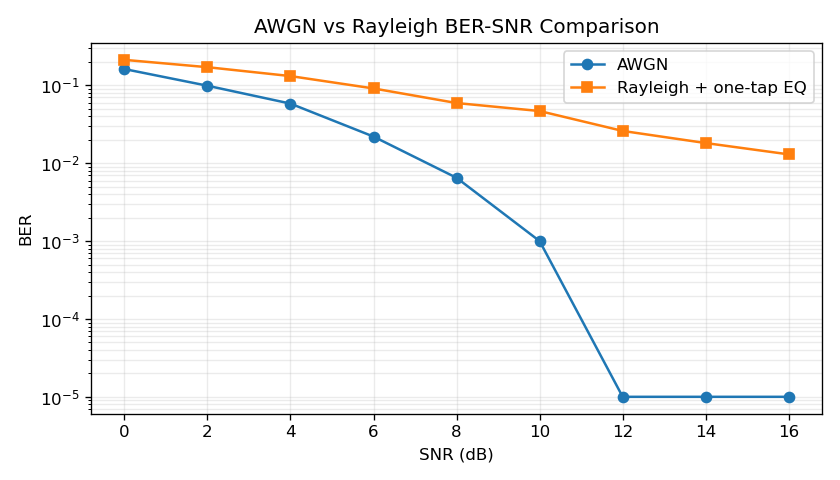
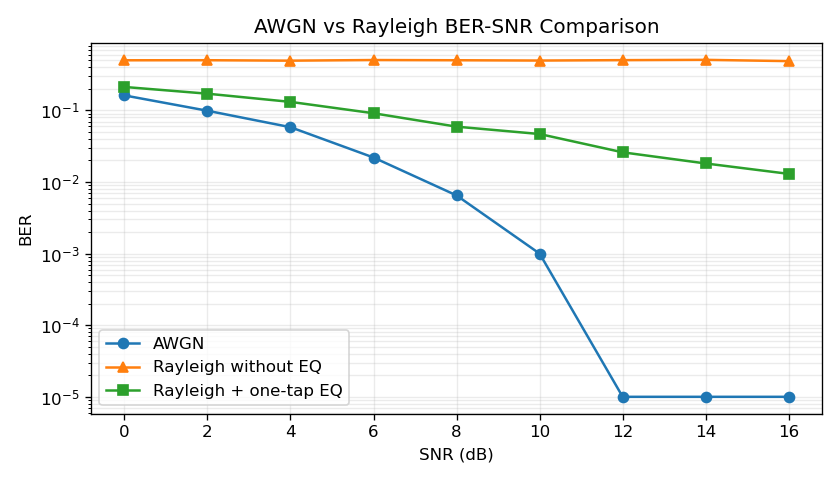
Harden pipeline input validation and decoding errors

diff --git a/tests/test_hidden_regression.py b/tests/test_hidden_regression.py
@@ -1,0 +1,118 @@
+"""Regression coverage for classroom-review boundary cases."""
+
+from __future__ import annotations
+
+import json
+import subprocess
+import sys
+from pathlib import Path
+
+import pytest
+
+from src.pipeline import run_pipeline
+
+
+PROJECT_ROOT = Path(__file__).resolve().parents[1]
+REQUIRED_METRICS = {
+    "snr_db", "seed", "modulation", "channel", "payload_bits", "ber", "fer",
+    "text_match_rate", "checksum_pass", "sync_start_index", "failure_reason",
+}
+
+
+def run_cli(*args: str) -> subprocess.CompletedProcess[str]:
+    return subprocess.run(
+        [sys.executable, "main.py", *args],
+        cwd=PROJECT_ROOT,
+        text=True,
+        capture_output=True,
+        timeout=30,
+    )
+
+
[email redacted](
+    "content",
+    [
+        "无线通信技术期末项目",
+        "A plain English payload.",
+        "QPSK 链路 mixed text 🚀📡",
+        "",
+        "短",
+        ("较长文本 mixed UTF-8 🌏\n" * 80),
+    ],
+    ids=["chinese", "english", "mixed_emoji", "empty", "short", "long"],
+)
+def test_utf8_round_trip_and_payload_length(tmp_path: Path, content: str):
+    source = tmp_path / "source.txt"
+    output = tmp_path / "nested" / "results" / "received.txt"
+    source.write_bytes(content.encode("utf-8"))
+    metrics = run_pipeline(
+        input_path=source, output_path=output, snr_db=12, seed=2026,
+        modulation="qpsk", channel="awgn", make_plots=False,
+    )
+    assert output.read_bytes() == source.read_bytes()
+    assert metrics["payload_bits"] == len(source.read_bytes()) * 8
+    assert metrics["ber"] == metrics["fer"] == 0.0
+    assert metrics["checksum_pass"] is True
+    assert metrics["failure_reason"] is None
+    assert REQUIRED_METRICS <= metrics.keys()
+
+
[email redacted]("seed", [0, 1, 7, 2026, 65537])
+def test_awgn_12db_multiple_seeds(tmp_path: Path, seed: int):
+    source = tmp_path / f"input-{seed}.txt"
+    output = tmp_path / f"out-{seed}" / "received.txt"
+    source.write_text("Seed 回归 📶 " * 12, encoding="utf-8")
+    metrics = run_pipeline(
+        input_path=source, output_path=output, snr_db=12, seed=seed,
+        modulation="qpsk", channel="awgn", make_plots=False,
+    )
+    assert output.read_bytes() == source.read_bytes()
+    assert metrics["sync_start_index"] == metrics["prefix_offset_symbols"]
+
+
[email redacted]("snr", ["-1", "nan", "inf"])
+def test_invalid_snr_is_rejected(tmp_path: Path, snr: str):
+    source = tmp_path / "input.txt"
+    source.write_text("data", encoding="utf-8")
+    result = run_cli("--input", str(source), "--output", str(tmp_path / "out.txt"), "--snr", snr)
+    assert result.returncode != 0
+    assert "snr must be a finite non-negative number" in result.stderr.lower()
+    assert "traceback" not in result.stderr.lower()
+
+
[email redacted](
+    ("option", "value"),
+    [("--mod", "bpsk"), ("--channel", "rician")],
+)
+def test_invalid_choice_is_rejected(tmp_path: Path, option: str, value: str):
+    source = tmp_path / "input.txt"
+    source.write_text("data", encoding="utf-8")
+    result = run_cli(
+        "--input", str(source), "--output", str(tmp_path / "out.txt"), option, value,
+    )
+    assert result.returncode != 0
+    assert "invalid choice" in result.stderr.lower()
+    assert "traceback" not in result.stderr.lower()
+
+
+def test_missing_input_has_clear_error(tmp_path: Path):
+    missing = tmp_path / "missing.txt"
+    result = run_cli("--input", str(missing), "--output", str(tmp_path / "out.txt"))
+    assert result.returncode != 0
+    assert "input file does not exist" in result.stderr.lower()
+    assert "traceback" not in result.stderr.lower()
+
+
[email redacted]("channel", ["awgn", "rayleigh"])
+def test_failure_metrics_schema_is_stable(tmp_path: Path, channel: str):
+    source = tmp_path / "input.txt"
+    source.write_text("low SNR failure payload " * 20, encoding="utf-8")
+    output = tmp_path / "low" / "received.txt"
+    metrics = run_pipeline(
+        input_path=source, output_path=output, snr_db=0, seed=2026,
+        modulation="qpsk", channel=channel, make_plots=False,
+    )
+    stored = json.loads((output.parent / "metrics.json").read_text(encoding="utf-8"))
+    assert REQUIRED_METRICS <= metrics.keys()
+    assert REQUIRED_METRICS <= stored.keys()
+    assert metrics["failure_reason"] is not None

diff --git a/main.py b/main.py
@@ -3,15 +3,28 @@
 from __future__ import annotations
 
 import argparse
+import math
+from pathlib import Path
 
 from src.pipeline import run_pipeline
+
+
+def finite_nonnegative(value: str) -> float:
+    """Argparse converter for physically meaningful SNR values."""
+    try:
+        number = float(value)
+    except ValueError as exc:
+        raise argparse.ArgumentTypeError("snr must be a finite non-negative number") from exc
+    if not math.isfinite(number) or number < 0:
+        raise argparse.ArgumentTypeError("snr must be a finite non-negative number")
+    return number
 
 
 def build_parser() -> argparse.ArgumentParser:
     parser = argparse.ArgumentParser(description="Wireless baseband simulator")
     parser.add_argument("--input", required=True, help="Input UTF-8 text file")
     parser.add_argument("--output", required=True, help="Output received text file")
-    parser.add_argument("--snr", type=float, default=12.0, help="SNR in dB")
+    parser.add_argument("--snr", type=finite_nonnegative, default=12.0, help="SNR in dB")
     parser.add_argument("--seed", type=int, default=2026, help="Random seed")
     parser.add_argument("--mod", default="qpsk", choices=["qpsk"], help="Modulation type")
     parser.add_argument("--channel", default="awgn", choices=["awgn", "rayleigh"], help="Channel type")
@@ -22,15 +35,23 @@ def build_parser() -> argparse.ArgumentParser:
 def main() -> int:
     parser = build_parser()
     args = parser.parse_args()
-    metrics = run_pipeline(
-        input_path=args.input,
-        output_path=args.output,
-        snr_db=args.snr,
-        seed=args.seed,
-        modulation=args.mod,
-        channel=args.channel,
-        make_plots=not args.no_plots,
-    )
+    input_path = Path(args.input)
+    if not input_path.exists():
+        parser.error(f"input file does not exist: {input_path}")
+    if not input_path.is_file():
+        parser.error(f"input path is not a file: {input_path}")
+    try:
+        metrics = run_pipeline(
+            input_path=input_path,
+            output_path=args.output,
+            snr_db=args.snr,
+            seed=args.seed,
+            modulation=args.mod,
+            channel=args.channel,
+            make_plots=not args.no_plots,
+        )
+    except (OSError, UnicodeError, ValueError) as exc:
+        parser.error(str(exc))
     print(
         "done: "
         f"text_match_rate={metrics['text_match_rate']}, "

diff --git a/src/pipeline.py b/src/pipeline.py
@@ -2,6 +2,7 @@
 
 from __future__ import annotations
 
+import math
 from pathlib import Path
 
 import numpy as np
@@ -33,6 +34,8 @@ def run_pipeline(
     channel: str = "awgn",
     make_plots: bool = True,
 ) -> dict[str, object]:
+    if not math.isfinite(float(snr_db)) or float(snr_db) < 0:
+        raise ValueError("snr must be a finite non-negative number")
     if modulation.lower() != "qpsk":
         raise ValueError("only qpsk modulation is supported")
     channel_name = channel.lower()
@@ -44,8 +47,15 @@ def run_pipeline(
     results_dir = output_file.parent
     metrics_path = results_dir / "metrics.json"
 
-    original_text = input_file.read_bytes().decode("utf-8")
-    payload_bits = source_encode(original_text)
+    try:
+        original_bytes = input_file.read_bytes()
+    except OSError as exc:
+        raise OSError(f"cannot read input file: {input_file}") from exc
+    try:
+        original_text = original_bytes.decode("utf-8")
+    except UnicodeDecodeError as exc:
+        raise UnicodeError(f"input file is not valid UTF-8: {input_file}") from exc
+    payload_bits = source_encode(original_bytes)
     crc_expected = crc32_from_payload_bits(payload_bits)
 
     recovered_bits: list[int] = []
@@ -119,12 +129,19 @@ def run_pipeline(
         if sync_start_index != prefix_offset and failure_reason is None:
             failure_reason = "synchronization_offset_mismatch"
         if not checksum_pass and failure_reason is None:
-            failure_reason = "checksum_failed"
+            failure_reason = "crc_failed"
         if recovered_text != original_text and failure_reason is None:
             failure_reason = "text_mismatch"
     except Exception as exc:  # low-SNR runs should still produce artifacts
         recovered_text = ""
-        failure_reason = f"{type(exc).__name__}: {exc}"
+        if isinstance(exc, UnicodeDecodeError):
+            failure_reason = "utf8_decode_error"
+        elif "preamble" in str(exc).lower() or "sync" in str(exc).lower():
+            failure_reason = "sync_failed"
+        elif "crc" in str(exc).lower() or "checksum" in str(exc).lower():
+            failure_reason = "crc_failed"
+        else:
+            failure_reason = f"decode_failed: {exc}"
 
     output_file.write_bytes(recovered_text.encode("utf-8"))
 

diff --git a/src/plots.py b/src/plots.py
@@ -115,7 +115,8 @@ def plot_ber_curve_compare(path: str | Path, seed: int = 2026) -> None:
     bits = [int(x) for x in rng.integers(0, 2, size=6000)]
     tx = qpsk_modulate(bits)
     awgn_ber: list[float] = []
-    rayleigh_ber: list[float] = []
+    rayleigh_raw_ber: list[float] = []
+    rayleigh_equalized_ber: list[float] = []
     for snr in snr_points:
         awgn_rx = awgn(tx, float(snr), seed=seed + int(snr) + 6000)
         awgn_bits = qpsk_demodulate(awgn_rx)[: len(bits)]
@@ -123,16 +124,25 @@ def plot_ber_curve_compare(path: str | Path, seed: int = 2026) -> None:
         awgn_ber.append(awgn_errors / len(bits))
 
         rayleigh_rx, h = rayleigh_fading_channel(tx, float(snr), seed=seed + int(snr) + 7000)
+        raw_bits = qpsk_demodulate(rayleigh_rx)[: len(bits)]
+        raw_errors = sum(1 for left, right in zip(bits, raw_bits) if left != right)
+        rayleigh_raw_ber.append(raw_errors / len(bits))
         equalized = one_tap_equalize(rayleigh_rx, h)
         rayleigh_bits = qpsk_demodulate(equalized)[: len(bits)]
         rayleigh_errors = sum(1 for left, right in zip(bits, rayleigh_bits) if left != right)
-        rayleigh_ber.append(rayleigh_errors / len(bits))
+        rayleigh_equalized_ber.append(rayleigh_errors / len(bits))
 
     fig, ax = plt.subplots(figsize=(7, 4), dpi=120)
     ax.semilogy(snr_points, np.maximum(awgn_ber, 1e-5), marker="o", label="AWGN")
     ax.semilogy(
         snr_points,
-        np.maximum(rayleigh_ber, 1e-5),
+        np.maximum(rayleigh_raw_ber, 1e-5),
+        marker="^",
+        label="Rayleigh without EQ",
+    )
+    ax.semilogy(
+        snr_points,
+        np.maximum(rayleigh_equalized_ber, 1e-5),
         marker="s",
         label="Rayleigh + one-tap EQ",
     )

diff --git a/src/frame.py b/src/frame.py
@@ -76,10 +76,9 @@ def parse_frame(frame_bits: list[int], require_preamble: bool = True) -> dict[st
     length_end = length_start + LENGTH_BITS
     length = bits_to_int(bits[length_start:length_end])
     encoded_payload_end = length_end + length * 3
-    if encoded_payload_end + CRC_BITS <= len(bits):
-        payload_end = encoded_payload_end
-    else:
-        payload_end = len(bits) - CRC_BITS
+    if encoded_payload_end + CRC_BITS > len(bits):
+        raise ValueError("frame payload is shorter than declared length")
+    payload_end = encoded_payload_end
     payload = bits[length_end:payload_end]
     checksum = bits_to_int(bits[payload_end : payload_end + CRC_BITS])
     return {

diff --git a/src/source_codec.py b/src/source_codec.py
@@ -29,9 +29,10 @@ def bits_to_bytes(bits: list[int]) -> bytes:
     return bytes(output)
 
 
-def source_encode(text: str) -> list[int]:
-    """Encode text to UTF-8 payload bits."""
-    return bytes_to_bits(text.encode("utf-8"))
+def source_encode(source: str | bytes) -> list[int]:
+    """Encode UTF-8 text or already-read source bytes to payload bits."""
+    data = source if isinstance(source, bytes) else source.encode("utf-8")
+    return bytes_to_bits(data)
 
 
 def source_decode(bits: list[int]) -> str: